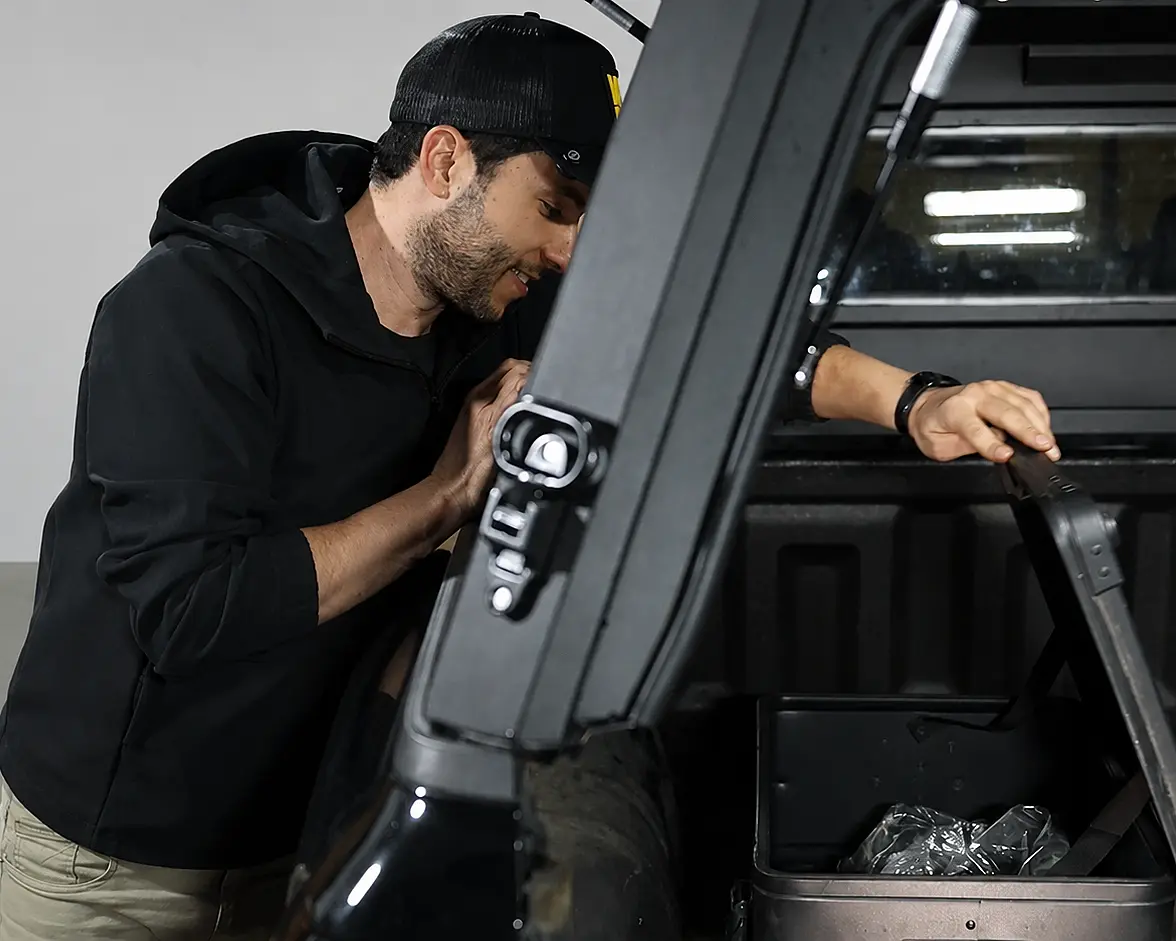
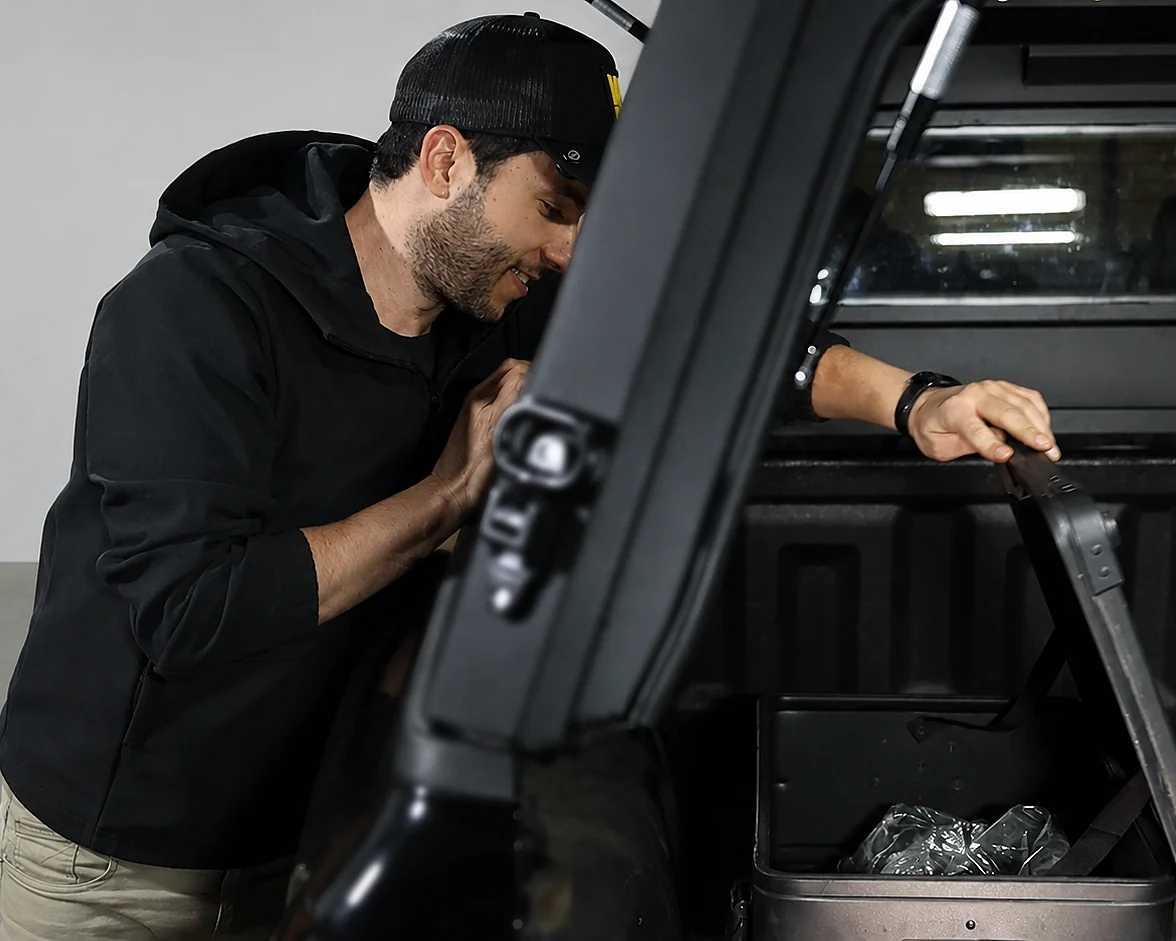
Prévia da LP Canopy Armor: retorno da dona de 06/11
Hero e acesso lateral nos originais em alta, módulo "Estrutura em alumínio 2mm",
UPGRADE nos módulos e no FAQ, Ram 1500 na compatibilidade, texto novo de "Barraca
e toldo", logo sem o "Off Road" solto, títulos sem ponto final e botão do hero
quebrando em "Quero equipar / minha picape" no celular.

Changed region(s): [[0.2755, 0.0, 0.7347, 1.0], [0.3673, 0.2157, 0.4286, 0.2774]]

diff --git a/index.html b/index.html
@@ -102,6 +102,10 @@ html, body { max-width: 100%; overflow-x: hidden; background: #f1f0f0; }
 }
 .mkc-btn:hover, .mkc-btn:focus { transform: scale(1.03); }
 .mkc-btn--primary { background: var(--mkc-accent); color: #10110f; box-shadow: 0 10px 30px rgba(255,178,67,.25); }
+/* texto do botão numa caixa própria: dentro do flex do botão um <br> solto não quebra linha.
+   .mkc-so-cel = quebra só no celular (06/11: "Quero equipar / minha picape"). */
+.mkc-btn__txt { text-align: center; line-height: 1.15; }
+@media (min-width: 768px) { .mkc-so-cel { display: none; } }
 
 /* ---------- preço ao lado do botão (06/11, pedido do dono; mesmo molde da Barracas) ----------
    Botão + "A partir de R$ 17.800" lado a lado. Celular: a dupla ocupa a largura toda e o
@@ -145,7 +149,6 @@ html, body { max-width: 100%; overflow-x: hidden; background: #f1f0f0; }
 }
 .mkc-header__brand { display: flex; align-items: center; gap: 10px; min-height: 44px; }
 .mkc-header__logo { width: 28px; flex: 0 0 auto; }
-.mkc-header__brandtext { font-family: var(--mkc-display); font-size: 1.15rem; font-weight: 700; text-transform: uppercase; letter-spacing: .04em; color: #fff; }
 .mkc-header__cta {
   display: inline-flex; align-items: center; justify-content: center; min-height: 44px; padding: 0 16px;
   border: 1px solid var(--mkc-accent); border-radius: 10px; color: #fff; flex: 0 0 auto;
@@ -602,7 +605,6 @@ html, body { max-width: 100%; overflow-x: hidden; background: #f1f0f0; }
 .mkc-footer__inner { display: flex; flex-direction: column; align-items: flex-start; gap: 14px; }
 .mkc-footer__brand { display: flex; align-items: center; gap: 10px; min-height: 44px; }
 .mkc-footer__logo { width: 26px; }
-.mkc-footer__brandtext { font-family: var(--mkc-display); font-weight: 700; letter-spacing: .04em; text-transform: uppercase; font-size: 1rem; color: #fff; }
 .mkc-footer__text { display: flex; flex-direction: column; gap: 3px; }
 .mkc-footer__p { color: #b9bbbf; font-size: .76rem; line-height: 1.45; }
 .mkc-footer__lead { color: #fff; font-weight: 600; font-size: .82rem; margin-bottom: 4px; }
@@ -618,12 +620,12 @@ html, body { max-width: 100%; overflow-x: hidden; background: #f1f0f0; }
      ser transparente/absoluto sobre o Hero: agora é uma barra preta NORMAL, no fluxo, da
      mesma cor do Hero (assim o RD não precisa "deixar flutuar" nada) e com a faixa âmbar
      no topo, como na peça de divulgação da dona (referencia-2026-09-30/1.png). Sem menu
-     de âncoras: a página é curta e o celular não tem onde pôr cinco links. -->
+     de âncoras: a página é curta e o celular não tem onde pôr cinco links. 06/11: saiu o
+     texto "Off Road" ao lado do logo (retorno da dona: já está no logotipo); o mesmo no rodapé. -->
 <section class="mkc-section mkc-header mkc-full">
   <div class="mkc-header__inner">
     <a href="#topo" class="mkc-header__brand">
       <img class="mkc-header__logo" src="img/logos/logo-mkk.svg" alt="MKK Off Road" />
-      <span class="mkc-header__brandtext">Off Road</span>
     </a>
     <a class="mkc-header__cta" href="#formulario">Pedir proposta</a>
   </div>
@@ -638,16 +640,18 @@ html, body { max-width: 100%; overflow-x: hidden; background: #f1f0f0; }
      nos blocos de Acesso total e Itens inclusos). A foto é a MESMA foto real hero-canopy
      (a peça é um recorte dela). No celular a picape fica no meio da coluna e o botão
      embaixo; a partir de 768 px a foto vira o fundo. 06/11: "A partir de R$ 17.800" ao
-     lado do botão (pedido do dono, mesmo molde dos R$ 15.000 da Barracas). -->
+     lado do botão (pedido do dono, mesmo molde dos R$ 15.000 da Barracas). Retorno da dona,
+     06/11: no celular o texto do botão quebra em "Quero equipar / minha picape" (o <br> só
+     vale abaixo de 768 px), e a foto é o original em alta (Canopy_1.jpg, 2400 px). -->
 <section class="mkc-section mkc-hero mkc-full" id="topo">
   <div class="mkc-hero__head">
     <h1 class="mkc-hero__title">Canopy<br>Armor</h1>
     <p class="mkc-hero__series"><span>Performance Series</span></p>
   </div>
-  <img class="mkc-hero__photo" src="img/hero-canopy.webp" alt="Picape preta com a Canopy Armor instalada" width="2400" height="1800" />
+  <img class="mkc-hero__photo" src="img/hero-canopy.webp" alt="Picape preta com a Canopy Armor instalada" width="2400" height="1516" />
   <div class="mkc-hero__foot">
     <p class="mkc-hero__tag">Feita para proteger. <em>Criada para explorar.</em></p>
-    <div class="mkc-cta-preco"><a class="mkc-btn mkc-btn--primary" href="#formulario">Quero equipar minha picape
+    <div class="mkc-cta-preco"><a class="mkc-btn mkc-btn--primary" href="#formulario"><span class="mkc-btn__txt">Quero equipar<br class="mkc-so-cel"> minha picape</span>
       <svg xmlns="http://www.w3.org/2000/svg" width="20" height="20" viewBox="0 0 24 24" fill="none" stroke="currentColor" stroke-width="2" stroke-linecap="round" stroke-linejoin="round" aria-hidden="true"><path d="M5 12h14"/><path d="m12 5 7 7-7 7"/></svg>
     </a><p class="mkc-preco mkc-preco--onDark">A partir de <strong>R$ 17.800</strong></p></div>
   </div>
@@ -662,7 +666,10 @@ html, body { max-width: 100%; overflow-x: hidden; background: #f1f0f0; }
      a metade direita da foto, onde estão a porta, o vidro e a caçamba; no celular o texto
      fica num painel preto ABAIXO da foto, para não cobrir o carro). Celular: as duas
      fotos em paisagem 3:2 (antes a foto era quadrada, 1:1), para não virar rolagem escura
-     longa. Desktop: duas faixas largas com o texto sobre a esquerda. -->
+     longa. Desktop: duas faixas largas com o texto sobre a esquerda.
+     06/11 (retorno da dona): o bloco (3) virou "Feita para durar / Estrutura em alumínio 2mm"
+     com o texto novo dela; a foto 1 (access-side) foi trocada pelo arquivo sem perda que ela
+     mandou ("Acesso lateral.png", mesma foto e mesmo enquadramento). -->
 <section class="mkc-section mkc-block mkc-full" id="acesso">
   <div class="mkc-inner">
     <div class="mkc-acesso">
@@ -693,9 +700,9 @@ html, body { max-width: 100%; overflow-x: hidden; background: #f1f0f0; }
         <img src="img/product-side.webp" alt="Canopy Armor instalada em uma Ford Ranger" loading="lazy" width="1537" height="1023" />
         <span class="mkc-acesso__stamp"><svg xmlns="http://www.w3.org/2000/svg" viewBox="0 0 24 24" fill="none" stroke="currentColor" stroke-width="2" stroke-linecap="round" stroke-linejoin="round" aria-hidden="true"><rect width="8" height="4" x="8" y="2" rx="1" ry="1"/><path d="M16 4h2a2 2 0 0 1 2 2v14a2 2 0 0 1-2 2H6a2 2 0 0 1-2-2V6a2 2 0 0 1 2-2h2"/><path d="m9 14 2 2 4-4"/></svg>Projeto MKK</span>
         <div class="mkc-acesso__over">
-          <span class="mkc-acesso__eyebrow">Recursos técnicos</span>
-          <h2>O essencial já nasce integrado.</h2>
-          <p>Uma base robusta para usar agora e evoluir quando seus planos crescerem.</p>
+          <span class="mkc-acesso__eyebrow">Feita para durar</span>
+          <h2>Estrutura em alumínio 2mm</h2>
+          <p>Uma base robusta construída para oferecer máxima resistência e longa vida útil.</p>
         </div>
       </div>
     </div>
@@ -789,7 +796,7 @@ html, body { max-width: 100%; overflow-x: hidden; background: #f1f0f0; }
     <div class="mkc-video">
       <div class="mkc-video__copy">
         <p class="mkc-eyebrow">Review completo</p>
-        <h2>Veja cada detalhe em funcionamento.</h2>
+        <h2>Veja cada detalhe em funcionamento</h2>
         <p class="mkc-video__text">Aberturas, vedação, módulos e instalação explicados em um único vídeo.</p>
       </div>
       <div class="mkc-video__frame" data-mkc-yt="8TmXlKF3IMc">
@@ -821,8 +828,8 @@ html, body { max-width: 100%; overflow-x: hidden; background: #f1f0f0; }
   <div class="mkc-inner">
     <div class="mkc-mods">
       <span class="mkc-badge"><svg xmlns="http://www.w3.org/2000/svg" viewBox="0 0 24 24" fill="none" stroke="currentColor" stroke-width="2" stroke-linecap="round" stroke-linejoin="round" aria-hidden="true"><path d="M20 13c0 5-3.5 7.5-7.66 8.95a1 1 0 0 1-.67-.01C7.5 20.5 4 18 4 13V6a1 1 0 0 1 1-1c2 0 4.5-1.2 6.24-2.72a1.17 1.17 0 0 1 1.52 0C14.51 3.81 17 5 19 5a1 1 0 0 1 1 1z"/><path d="m9 12 2 2 4-4"/></svg>Organização inteligente</span>
-      <p class="mkc-eyebrow">Módulos configuráveis</p>
-      <h2>Seu equipamento tem lugar certo.</h2>
+      <p class="mkc-eyebrow">Dê um UPGRADE com módulos configuráveis</p>
+      <h2>Seu equipamento tem lugar certo</h2>
       <p class="mkc-mods__text">Crie compartimentos independentes, adicione uma mesa de trabalho e leve os itens essenciais de forma segura e previsível.</p>
       <p class="mkc-mods__apoio">Mais opções. Mais eficiência. Do seu jeito!</p>
     </div>
@@ -845,7 +852,7 @@ html, body { max-width: 100%; overflow-x: hidden; background: #f1f0f0; }
       </article>
       <article class="mkc-card">
         <div class="mkc-card__img"><img src="img/setup-complete.webp" alt="Picape com Canopy, barraca de teto e toldo montados" loading="lazy" width="1750" height="1400" /></div>
-        <div class="mkc-card__body"><span class="mkc-card__tag">Expedição</span><h3>Barraca e toldo</h3><p>Base de acampamento com toldo, abrigo e acesso organizado.</p></div>
+        <div class="mkc-card__body"><span class="mkc-card__tag">Expedição</span><h3>Barraca e toldo</h3><p>Base de acampamento completa, instalação compatível com toldo, barraca e demais acessórios MKK.</p></div>
       </article>
     </div>
   </div>
@@ -867,7 +874,7 @@ html, body { max-width: 100%; overflow-x: hidden; background: #f1f0f0; }
   <div class="mkc-inner">
     <div class="mkc-compat mkc-compat--gif">
       <p class="mkc-eyebrow">Compatibilidade</p>
-      <h2>O encaixe certo para a sua picape.</h2>
+      <h2>O encaixe certo para a sua picape</h2>
       <ul class="mkc-pills">
         <li class="mkc-pill"><strong>Ford Maverick</strong><small>2022 a 2026</small></li>
         <li class="mkc-pill"><strong>Fiat Titano</strong><small>2024 a 2026</small></li>
@@ -881,6 +888,7 @@ html, body { max-width: 100%; overflow-x: hidden; background: #f1f0f0; }
         <li class="mkc-pill"><strong>Ford Ranger</strong><small>2013 a 2023<br>2023 a 2026</small></li>
         <li class="mkc-pill"><strong>Ram Rampage</strong><small>2023 a 2026</small></li>
         <li class="mkc-pill"><strong>Jeep Gladiator</strong><small>2022 a 2026</small></li>
+        <li class="mkc-pill"><strong>Ram 1500</strong></li>
       </ul>
       <div class="mkc-gif" data-mkc-gif aria-label="Fotos de clientes com a Canopy Armor instalada">
       <figure class="mkc-gif__slide mkc-on"><img src="img/compat/hilux.webp" alt="Canopy Armor instalada na picape de um cliente" width="900" height="600" /></figure>
@@ -902,7 +910,7 @@ html, body { max-width: 100%; overflow-x: hidden; background: #f1f0f0; }
 <section class="mkc-section mkc-lead-topo mkc-full" id="formulario">
   <div class="mkc-inner">
     <p class="mkc-eyebrow">Solicite sua proposta</p>
-    <h2>Sua picape pode ir muito além.</h2>
+    <h2>Sua picape pode ir muito além</h2>
     <p class="mkc-lead__text">Conte como você pretende usar a Canopy Armor. A equipe MKK confirma a compatibilidade e prepara uma proposta personalizada.</p>
     <ul class="mkc-lead__chips">
       <li>Atendimento consultivo</li>
@@ -981,7 +989,7 @@ html, body { max-width: 100%; overflow-x: hidden; background: #f1f0f0; }
         <summary><span>Os armários e a mesa já acompanham a Canopy?</span>
           <svg xmlns="http://www.w3.org/2000/svg" viewBox="0 0 24 24" fill="none" stroke="currentColor" stroke-width="2" stroke-linecap="round" stroke-linejoin="round" aria-hidden="true"><path d="m6 9 6 6 6-6"/></svg>
         </summary>
-        <p>A Canopy já vem com o painel Molle interno nas portas laterais. Armários internos, mesa deslizante, painel Molle externo e outros acessórios são opcionais, permitindo montar a configuração ideal para seu uso.</p>
+        <p>Não, os acessórios são opcionais e permitem personalizar sua Canopy de acordo com a sua necessidade. A Canopy já vem equipada com molle panel interno nas portas laterais. Armários internos, mesa deslizante, molle panel externo e outros acessórios são UPGRADES disponíveis para ampliar a funcionalidade e aproveitar ainda mais o espaço.</p>
       </details>
       <details class="mkc-faq__item" name="mkc-faq">
         <summary><span>Como funciona o sistema Dust Out?</span>
@@ -1087,12 +1095,12 @@ html, body { max-width: 100%; overflow-x: hidden; background: #f1f0f0; }
 
 <!-- Seção 9 (bloco B) -- Rodapé MÍNIMO (rodada 2, 30/09): logo + a frase institucional da
      seção "Sobre" da LP anterior (a seção inteira saiu) + endereço (atualizado em 01/10) e copyright de hoje.
-     Sem menu: o DOM de produção não tem menu de rodapé. -->
+     Sem menu: o DOM de produção não tem menu de rodapé. 06/11: só o logo, sem o texto
+     "Off Road" ao lado (retorno da dona, o mesmo do header). -->
 <section class="mkc-section mkc-footer mkc-full">
   <div class="mkc-inner mkc-footer__inner">
     <a href="#topo" class="mkc-footer__brand">
       <img class="mkc-footer__logo" src="img/logos/logo-mkk.svg" alt="MKK Off Road" loading="lazy" />
-      <span class="mkc-footer__brandtext">Off Road</span>
     </a>
     <div class="mkc-footer__text">
       <p class="mkc-footer__p mkc-footer__lead">Mais de 10 anos criando equipamentos para quem escolhe outro caminho.</p>
